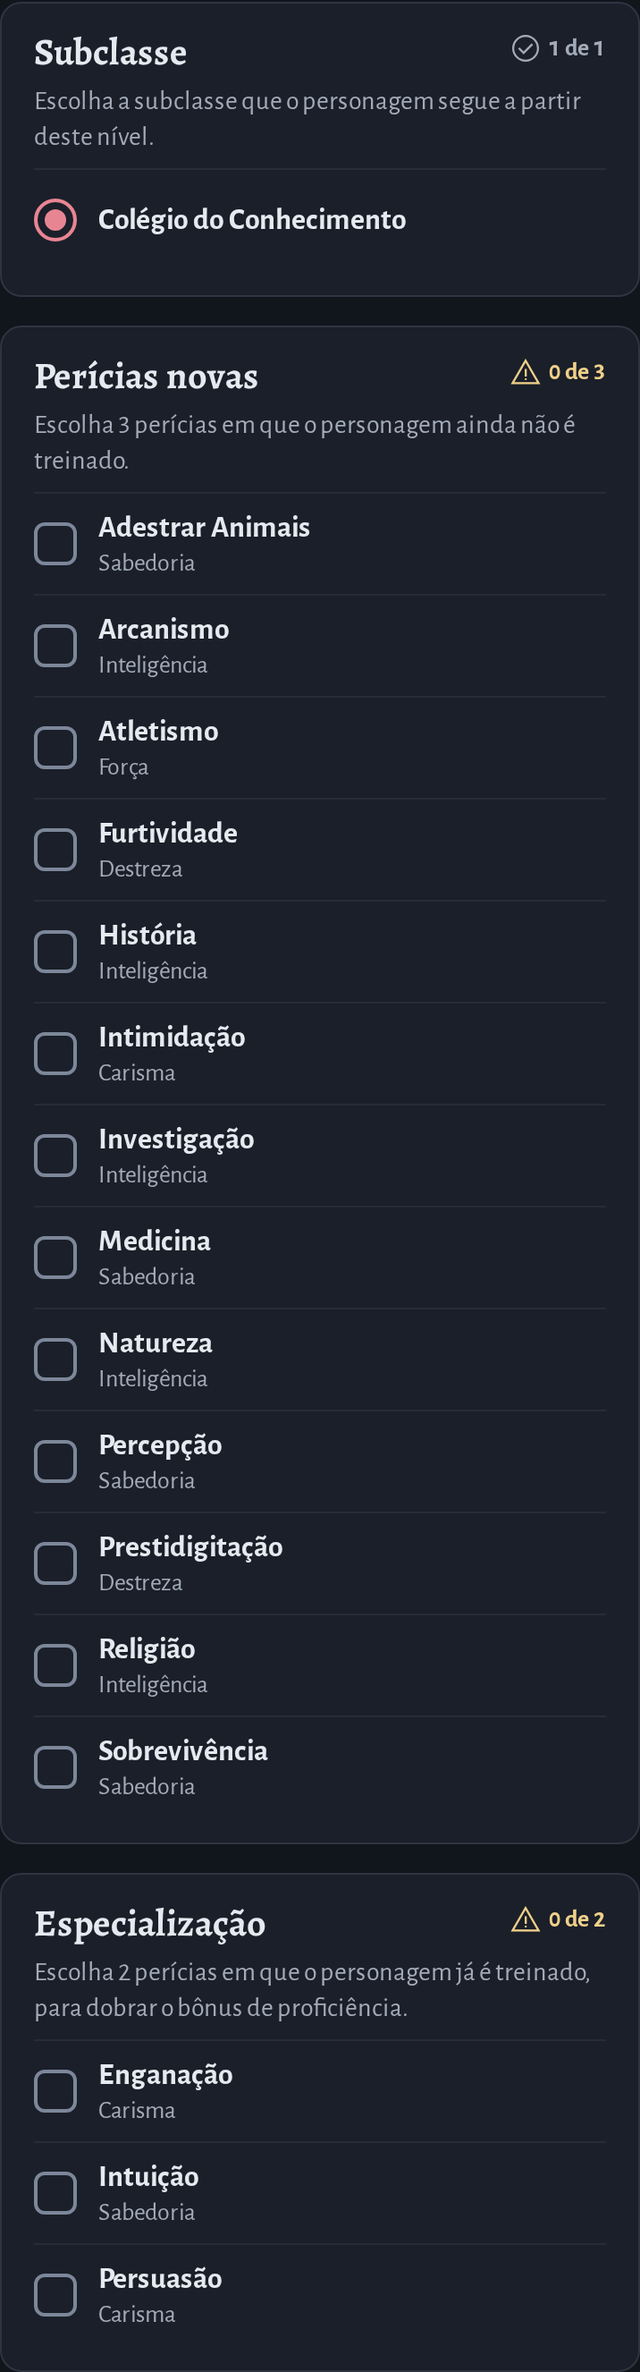
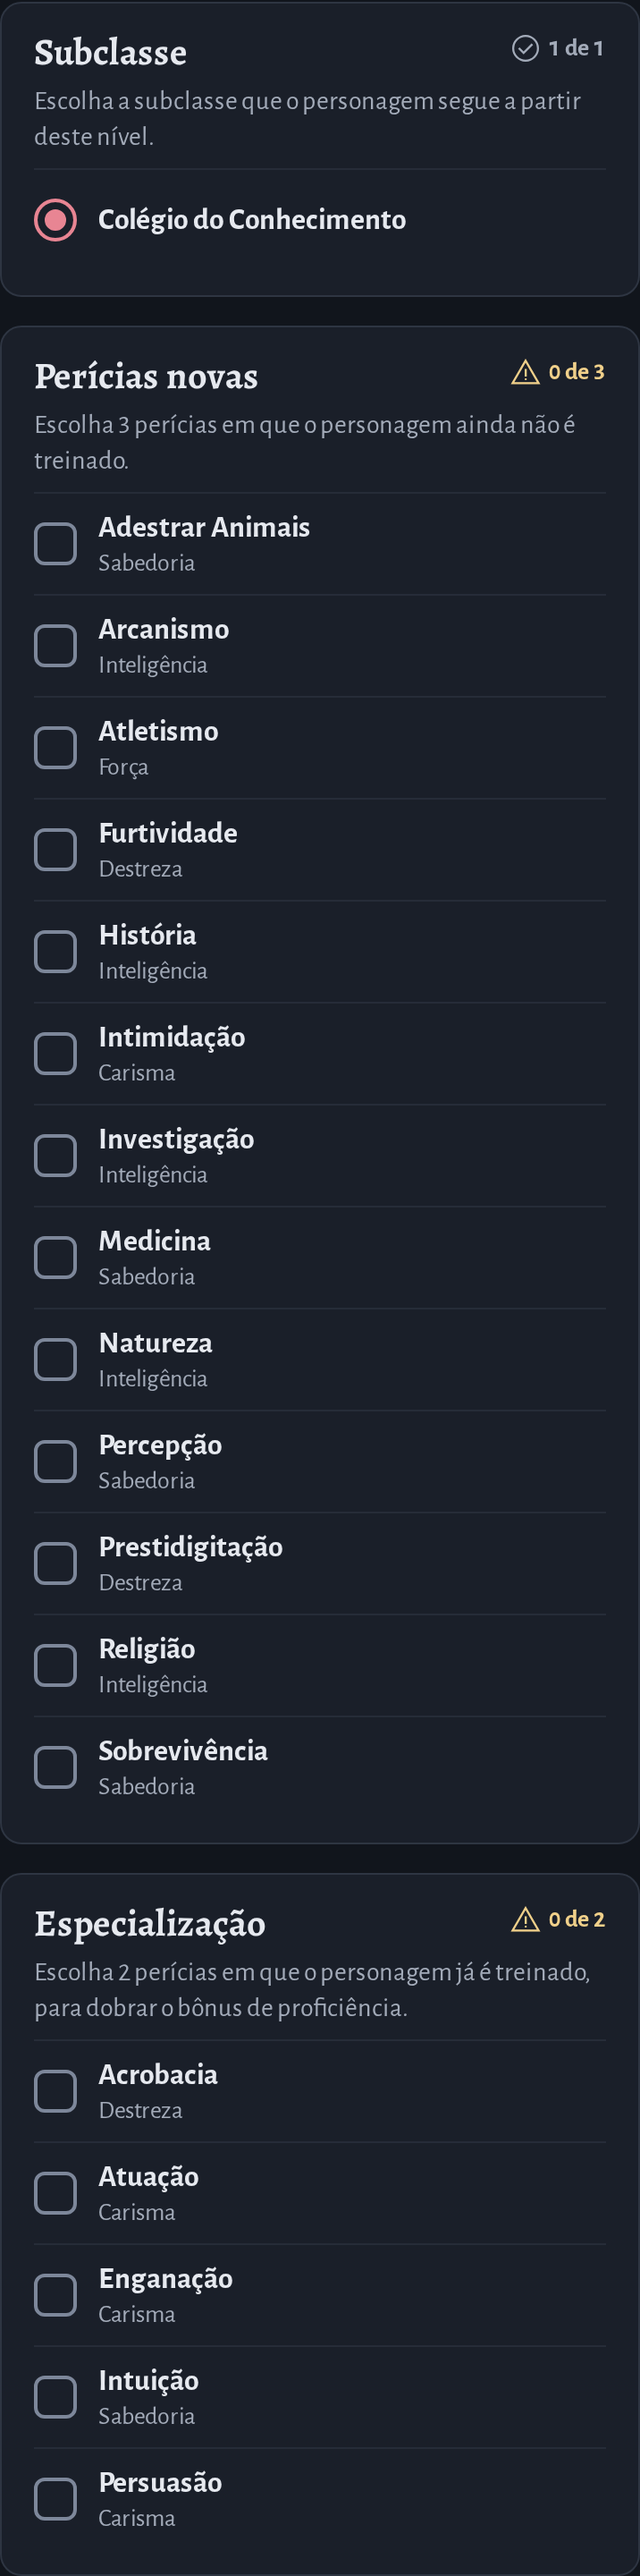
Screenshots: #574 part D level-up screen retaken with the expertise list of every proficient skill

diff --git a/574-subida-de-nivel-listas/README.md b/574-subida-de-nivel-listas/README.md
@@ -1,22 +1,22 @@
 # #574 part D, level-up screen: picks checked against the lists
 
-Crop: the "Escolhas" step (`app-picks-step`). 2x scale. Widths 390, 768, 1280; light (`claro`) and dark (`escuro`). Taken on the head of `feat/skill-pick-lists-574d` (0d709a99). The sticky page header and the sticky footer are set to static only while the crop is taken, so they do not cut across the tall step.
+Crop: the "Escolhas" step (`app-picks-step`). 2x scale. Widths 390, 768, 1280; light (`claro`) and dark (`escuro`). Retaken after the expertise-list fix (the list shows every skill the sheet is proficient in, whatever gave it). The sticky page header and the sticky footer are set to static only while the crop is taken, so they do not cut across the tall step.
 
-- `1-orla-bardo-2-escolhas-390-claro.png`: Orla, Bard 2 going to 3, step "Escolhas": the Knowledge college is picked and "Ver as outras perícias" is open. "Perícias novas" is 0 de 3 with 13 rows (the 18 skills minus the 5 the sheet trains: Acrobacia, Atuação, Enganação, Persuasão and Intuição are not rows), and "Especialização" is 0 de 2 with the trained skills it offers.
-- `1-orla-bardo-2-escolhas-390-escuro.png`: Orla, Bard 2 going to 3, step "Escolhas": the Knowledge college is picked and "Ver as outras perícias" is open. "Perícias novas" is 0 de 3 with 13 rows (the 18 skills minus the 5 the sheet trains: Acrobacia, Atuação, Enganação, Persuasão and Intuição are not rows), and "Especialização" is 0 de 2 with the trained skills it offers.
-- `1-orla-bardo-2-escolhas-768-claro.png`: Orla, Bard 2 going to 3, step "Escolhas": the Knowledge college is picked and "Ver as outras perícias" is open. "Perícias novas" is 0 de 3 with 13 rows (the 18 skills minus the 5 the sheet trains: Acrobacia, Atuação, Enganação, Persuasão and Intuição are not rows), and "Especialização" is 0 de 2 with the trained skills it offers.
-- `1-orla-bardo-2-escolhas-768-escuro.png`: Orla, Bard 2 going to 3, step "Escolhas": the Knowledge college is picked and "Ver as outras perícias" is open. "Perícias novas" is 0 de 3 with 13 rows (the 18 skills minus the 5 the sheet trains: Acrobacia, Atuação, Enganação, Persuasão and Intuição are not rows), and "Especialização" is 0 de 2 with the trained skills it offers.
-- `1-orla-bardo-2-escolhas-1280-claro.png`: Orla, Bard 2 going to 3, step "Escolhas": the Knowledge college is picked and "Ver as outras perícias" is open. "Perícias novas" is 0 de 3 with 13 rows (the 18 skills minus the 5 the sheet trains: Acrobacia, Atuação, Enganação, Persuasão and Intuição are not rows), and "Especialização" is 0 de 2 with the trained skills it offers.
-- `1-orla-bardo-2-escolhas-1280-escuro.png`: Orla, Bard 2 going to 3, step "Escolhas": the Knowledge college is picked and "Ver as outras perícias" is open. "Perícias novas" is 0 de 3 with 13 rows (the 18 skills minus the 5 the sheet trains: Acrobacia, Atuação, Enganação, Persuasão and Intuição are not rows), and "Especialização" is 0 de 2 with the trained skills it offers.
-- `2-orla-bardo-2-furtividade-390-claro.png`: The same step with Furtividade ticked: "Perícias novas" is 1 de 3 and the expertise list gains a Furtividade row.
-- `2-orla-bardo-2-furtividade-390-escuro.png`: The same step with Furtividade ticked: "Perícias novas" is 1 de 3 and the expertise list gains a Furtividade row.
-- `2-orla-bardo-2-furtividade-768-claro.png`: The same step with Furtividade ticked: "Perícias novas" is 1 de 3 and the expertise list gains a Furtividade row.
-- `2-orla-bardo-2-furtividade-768-escuro.png`: The same step with Furtividade ticked: "Perícias novas" is 1 de 3 and the expertise list gains a Furtividade row.
-- `2-orla-bardo-2-furtividade-1280-claro.png`: The same step with Furtividade ticked: "Perícias novas" is 1 de 3 and the expertise list gains a Furtividade row.
-- `2-orla-bardo-2-furtividade-1280-escuro.png`: The same step with Furtividade ticked: "Perícias novas" is 1 de 3 and the expertise list gains a Furtividade row.
-- `3-doran-ladino-1-pericia-nova-390-claro.png`: Doran, Fighter 5 adding the Ladino at level 1, step "Escolhas": "Perícia nova" 0 de 1 is the Ladino's own list (radios, one skill), with Atletismo, Intimidação and Percepção shown as "Você já tem" and disabled; "Especialização" 0 de 2 below it.
-- `3-doran-ladino-1-pericia-nova-390-escuro.png`: Doran, Fighter 5 adding the Ladino at level 1, step "Escolhas": "Perícia nova" 0 de 1 is the Ladino's own list (radios, one skill), with Atletismo, Intimidação and Percepção shown as "Você já tem" and disabled; "Especialização" 0 de 2 below it.
-- `3-doran-ladino-1-pericia-nova-768-claro.png`: Doran, Fighter 5 adding the Ladino at level 1, step "Escolhas": "Perícia nova" 0 de 1 is the Ladino's own list (radios, one skill), with Atletismo, Intimidação and Percepção shown as "Você já tem" and disabled; "Especialização" 0 de 2 below it.
-- `3-doran-ladino-1-pericia-nova-768-escuro.png`: Doran, Fighter 5 adding the Ladino at level 1, step "Escolhas": "Perícia nova" 0 de 1 is the Ladino's own list (radios, one skill), with Atletismo, Intimidação and Percepção shown as "Você já tem" and disabled; "Especialização" 0 de 2 below it.
-- `3-doran-ladino-1-pericia-nova-1280-claro.png`: Doran, Fighter 5 adding the Ladino at level 1, step "Escolhas": "Perícia nova" 0 de 1 is the Ladino's own list (radios, one skill), with Atletismo, Intimidação and Percepção shown as "Você já tem" and disabled; "Especialização" 0 de 2 below it.
-- `3-doran-ladino-1-pericia-nova-1280-escuro.png`: Doran, Fighter 5 adding the Ladino at level 1, step "Escolhas": "Perícia nova" 0 de 1 is the Ladino's own list (radios, one skill), with Atletismo, Intimidação and Percepção shown as "Você já tem" and disabled; "Especialização" 0 de 2 below it.
+- `1-orla-bardo-2-escolhas-390-claro.png`: Orla, Bard 2 going to 3, step "Escolhas": the Knowledge college is picked and "Ver as outras perícias" is open. "Perícias novas" is 0 de 3 with 13 rows (the 18 skills minus the 5 the sheet trains). "Especialização" is 0 de 2 and lists every skill she is proficient in, background skills included: Acrobacia, Atuação, Enganação, Intuição, Persuasão.
+- `1-orla-bardo-2-escolhas-390-escuro.png`: Orla, Bard 2 going to 3, step "Escolhas": the Knowledge college is picked and "Ver as outras perícias" is open. "Perícias novas" is 0 de 3 with 13 rows (the 18 skills minus the 5 the sheet trains). "Especialização" is 0 de 2 and lists every skill she is proficient in, background skills included: Acrobacia, Atuação, Enganação, Intuição, Persuasão.
+- `1-orla-bardo-2-escolhas-768-claro.png`: Orla, Bard 2 going to 3, step "Escolhas": the Knowledge college is picked and "Ver as outras perícias" is open. "Perícias novas" is 0 de 3 with 13 rows (the 18 skills minus the 5 the sheet trains). "Especialização" is 0 de 2 and lists every skill she is proficient in, background skills included: Acrobacia, Atuação, Enganação, Intuição, Persuasão.
+- `1-orla-bardo-2-escolhas-768-escuro.png`: Orla, Bard 2 going to 3, step "Escolhas": the Knowledge college is picked and "Ver as outras perícias" is open. "Perícias novas" is 0 de 3 with 13 rows (the 18 skills minus the 5 the sheet trains). "Especialização" is 0 de 2 and lists every skill she is proficient in, background skills included: Acrobacia, Atuação, Enganação, Intuição, Persuasão.
+- `1-orla-bardo-2-escolhas-1280-claro.png`: Orla, Bard 2 going to 3, step "Escolhas": the Knowledge college is picked and "Ver as outras perícias" is open. "Perícias novas" is 0 de 3 with 13 rows (the 18 skills minus the 5 the sheet trains). "Especialização" is 0 de 2 and lists every skill she is proficient in, background skills included: Acrobacia, Atuação, Enganação, Intuição, Persuasão.
+- `1-orla-bardo-2-escolhas-1280-escuro.png`: Orla, Bard 2 going to 3, step "Escolhas": the Knowledge college is picked and "Ver as outras perícias" is open. "Perícias novas" is 0 de 3 with 13 rows (the 18 skills minus the 5 the sheet trains). "Especialização" is 0 de 2 and lists every skill she is proficient in, background skills included: Acrobacia, Atuação, Enganação, Intuição, Persuasão.
+- `2-orla-bardo-2-furtividade-390-claro.png`: The same step with Furtividade ticked: "Perícias novas" is 1 de 3 and the expertise list gains a Furtividade row next to the five she already had.
+- `2-orla-bardo-2-furtividade-390-escuro.png`: The same step with Furtividade ticked: "Perícias novas" is 1 de 3 and the expertise list gains a Furtividade row next to the five she already had.
+- `2-orla-bardo-2-furtividade-768-claro.png`: The same step with Furtividade ticked: "Perícias novas" is 1 de 3 and the expertise list gains a Furtividade row next to the five she already had.
+- `2-orla-bardo-2-furtividade-768-escuro.png`: The same step with Furtividade ticked: "Perícias novas" is 1 de 3 and the expertise list gains a Furtividade row next to the five she already had.
+- `2-orla-bardo-2-furtividade-1280-claro.png`: The same step with Furtividade ticked: "Perícias novas" is 1 de 3 and the expertise list gains a Furtividade row next to the five she already had.
+- `2-orla-bardo-2-furtividade-1280-escuro.png`: The same step with Furtividade ticked: "Perícias novas" is 1 de 3 and the expertise list gains a Furtividade row next to the five she already had.
+- `3-doran-ladino-1-pericia-nova-390-claro.png`: Doran, Fighter 5 adding the Ladino at level 1, step "Escolhas": "Perícia nova" 0 de 1 is the Ladino's own list (radios, one skill) with Atletismo, Intimidação and Percepção as "Você já tem" and disabled; "Especialização" 0 de 2 lists the four skills he is proficient in (Atletismo, Intimidação from the background; Percepção, Sobrevivência from the class).
+- `3-doran-ladino-1-pericia-nova-390-escuro.png`: Doran, Fighter 5 adding the Ladino at level 1, step "Escolhas": "Perícia nova" 0 de 1 is the Ladino's own list (radios, one skill) with Atletismo, Intimidação and Percepção as "Você já tem" and disabled; "Especialização" 0 de 2 lists the four skills he is proficient in (Atletismo, Intimidação from the background; Percepção, Sobrevivência from the class).
+- `3-doran-ladino-1-pericia-nova-768-claro.png`: Doran, Fighter 5 adding the Ladino at level 1, step "Escolhas": "Perícia nova" 0 de 1 is the Ladino's own list (radios, one skill) with Atletismo, Intimidação and Percepção as "Você já tem" and disabled; "Especialização" 0 de 2 lists the four skills he is proficient in (Atletismo, Intimidação from the background; Percepção, Sobrevivência from the class).
+- `3-doran-ladino-1-pericia-nova-768-escuro.png`: Doran, Fighter 5 adding the Ladino at level 1, step "Escolhas": "Perícia nova" 0 de 1 is the Ladino's own list (radios, one skill) with Atletismo, Intimidação and Percepção as "Você já tem" and disabled; "Especialização" 0 de 2 lists the four skills he is proficient in (Atletismo, Intimidação from the background; Percepção, Sobrevivência from the class).
+- `3-doran-ladino-1-pericia-nova-1280-claro.png`: Doran, Fighter 5 adding the Ladino at level 1, step "Escolhas": "Perícia nova" 0 de 1 is the Ladino's own list (radios, one skill) with Atletismo, Intimidação and Percepção as "Você já tem" and disabled; "Especialização" 0 de 2 lists the four skills he is proficient in (Atletismo, Intimidação from the background; Percepção, Sobrevivência from the class).
+- `3-doran-ladino-1-pericia-nova-1280-escuro.png`: Doran, Fighter 5 adding the Ladino at level 1, step "Escolhas": "Perícia nova" 0 de 1 is the Ladino's own list (radios, one skill) with Atletismo, Intimidação and Percepção as "Você já tem" and disabled; "Especialização" 0 de 2 lists the four skills he is proficient in (Atletismo, Intimidação from the background; Percepção, Sobrevivência from the class).
